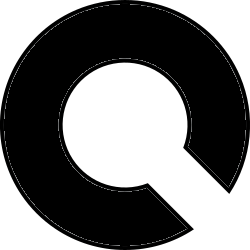
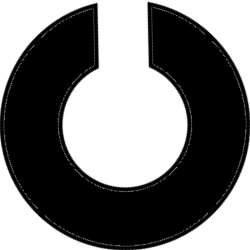
Salvando novamente antes de fazer mais testes, funcionando a lógica do teste, faltam retoques visuais

diff --git a/views/acuidade.py b/views/acuidade.py
@@ -1,5 +1,5 @@
 import customtkinter as ctk
-from PIL import Image, ImageTk, ImageEnhance
+from PIL import Image, ImageTk, ImageEnhance, ImageOps
 import math
 import os
 import random
@@ -47,17 +47,17 @@ class AcuidadeView(ctk.CTkFrame):
         self.container.grid(row=0, column=0, sticky="nsew")
         self.container.grid_columnconfigure(0, weight=1)
 
-        self.index = 0
-        self.teste = teste
+        self.index = 0 # Index de quantos perguntas foram respondidas
+        self.teste = teste 
         self.angulos = angulos
         self.tamanhos = tamanhos
-        self.tamanho_index = 4  # Começa no índice 4 -> tamanho 18
+        self.tamanho_index = 4  # Começa no índice 4 -> tamanho 18px
         self.erros_por_tamanho = {}  # Para controle posterior
         self.angulo_atual = 0
         self.carregar_proximo()
 
     def carregar_proximo(self):
-        if self.tamanho_index < 0 or self.tamanho_index >= len(self.tamanhos):
+        if self.index == 8:
             print("Teste finalizado.")
             print("Resultado final:", resultado)
             return
@@ -66,7 +66,7 @@ class AcuidadeView(ctk.CTkFrame):
             widget.destroy()
 
         imagem_path, um, dois, tres = self.teste
-        self.angulo_atual = random.choice(self.angulos)
+        self.angulo_atual = random.choice(self.angulos) # Adiciona aleatóriamente um dos ângulos a variavel.
         tamanho_atual = self.tamanhos[self.tamanho_index]
 
         # Orientações
@@ -75,12 +75,18 @@ class AcuidadeView(ctk.CTkFrame):
         ctk.CTkLabel(self.container, text=dois, font=ctk.CTkFont(size=28, family='helvetica'), wraplength=1500, text_color="gray", justify="center").grid(row=2, column=0, pady=(0, 10), sticky="n")
         ctk.CTkLabel(self.container, text=tres, font=ctk.CTkFont(size=28, family='helvetica', weight="bold"), wraplength=1500, text_color="gray", justify="center").grid(row=3, column=0, pady=(0, 0), sticky="n")
 
-        # Imagem do arco rotacionado
-        img = Image.open(imagem_path).resize((tamanho_atual * 1, tamanho_atual * 1))
-        img = img.rotate(self.angulo_atual)
+        # Imagem do arco rotacionado.
+        escala = 4
+        tam = tamanho_atual * escala #estava perdendo resolução ao rotacionar, por isso primeiro aumenta a escala dela e depois reduz, mantendo a resolução da imagem.
+        img = Image.open(imagem_path).convert("RGBA")
+        img = img.resize((tam, tam), resample=Image.BICUBIC)
+        img = img.rotate(self.angulo_atual, expand=True, resample=Image.BICUBIC) # Rotaciona a imagem
+        img = ImageOps.mirror(img) # Por conta de trabalhar essa rotação diferente da disposição dos botões de resposta, tem que espelhar a imagem depois de rotacionar.
+        img = img.resize((tamanho_atual, tamanho_atual), resample=Image.LANCZOS)
+
         photo = ImageTk.PhotoImage(img)
 
-        self.label_img = ctk.CTkLabel(self.container, image=photo, text="")
+        self.label_img = ctk.CTkLabel(self.container, image=photo, text="", anchor="center")
         self.label_img.image = photo
         self.label_img.grid(row=4, column=0, pady=100, sticky="ew")
 
